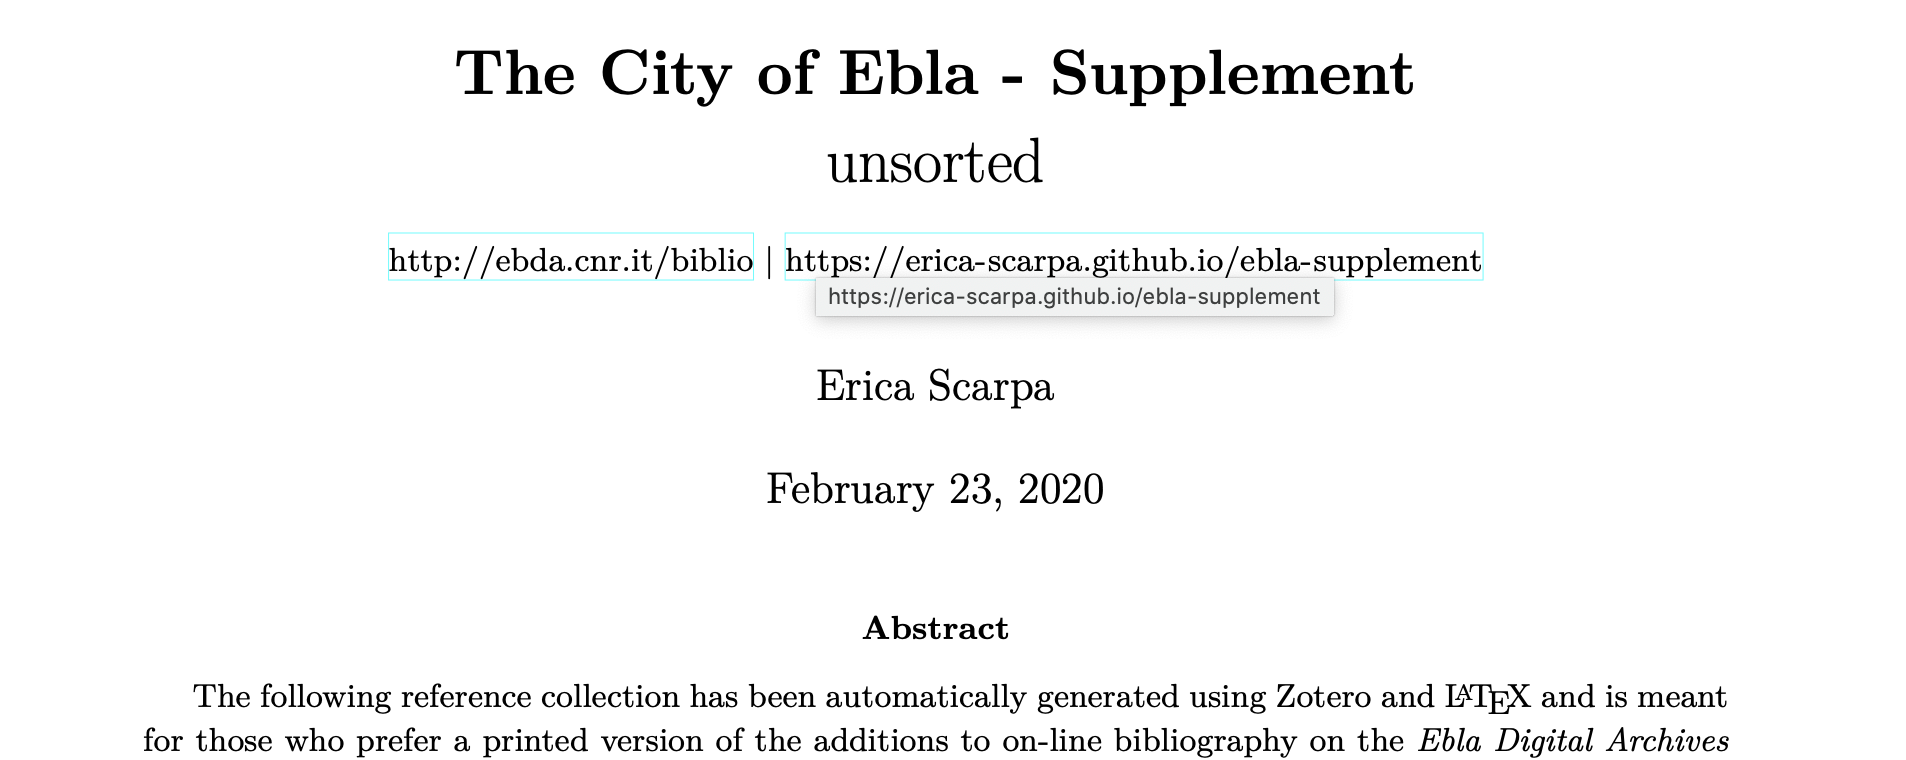
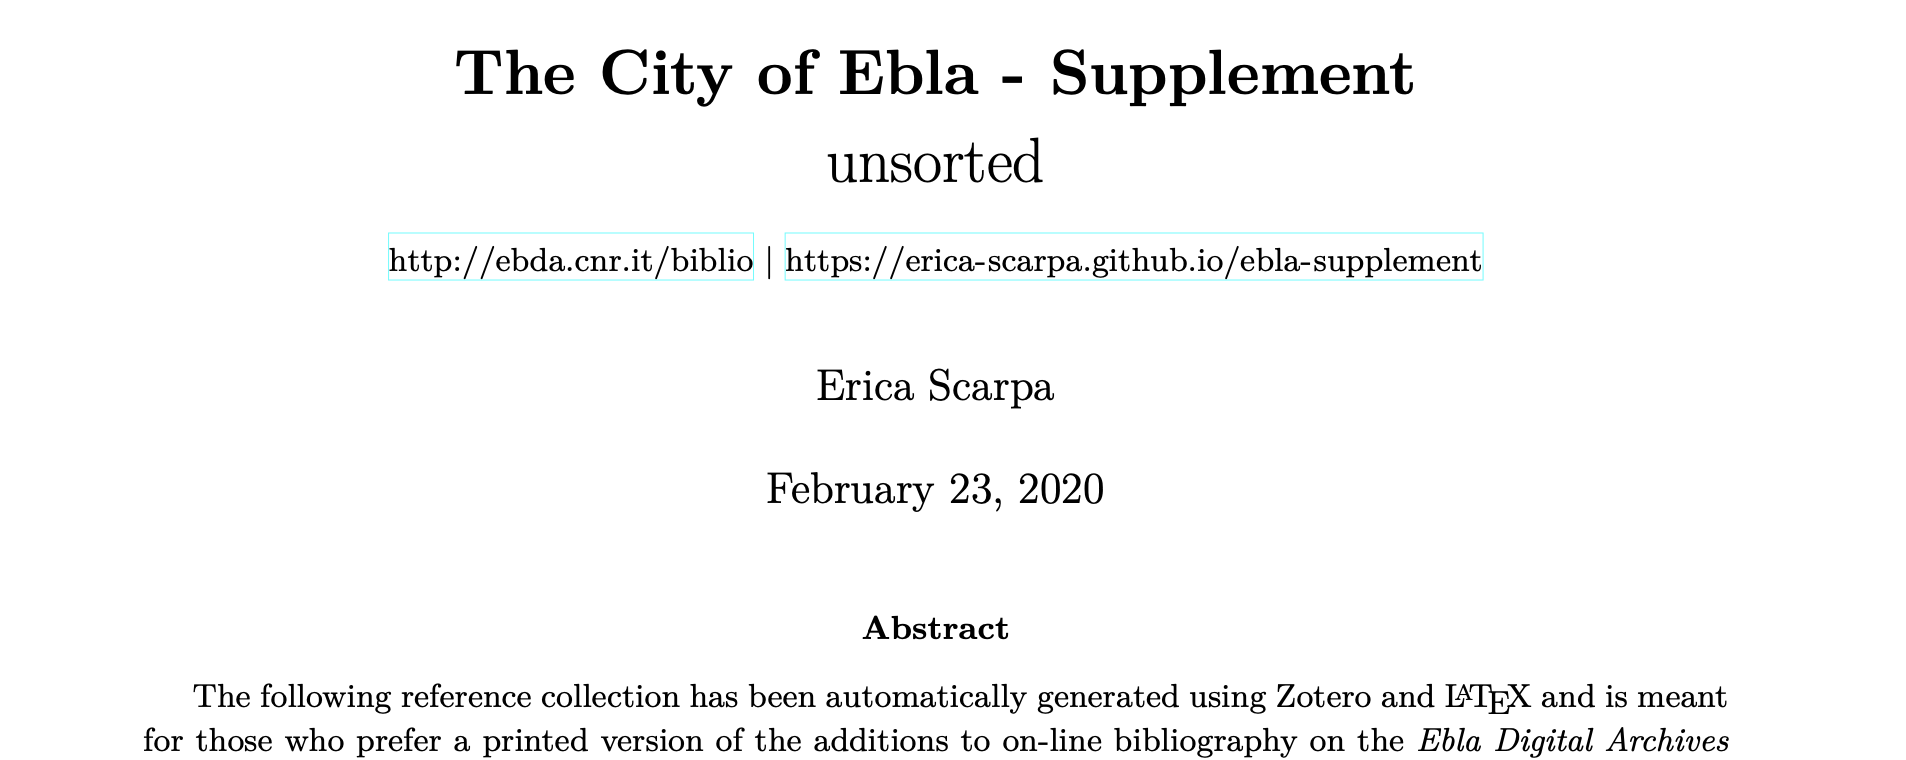
Updated footer

Changed region(s): [[0.4334, 0.3632, 0.712, 0.4237]]

diff --git a/_site/ebla-supplement.html b/_site/ebla-supplement.html
@@ -7,15 +7,15 @@
 <meta name="generator" content="Jekyll v3.7.3" />
 <meta property="og:title" content="The City of Ebla - Supplement" />
 <meta property="og:locale" content="en_US" />
-<meta name="description" content="Two reference collections automatically generated using Zotero and LaTeX, unsorted or ordere by author-date. These PDFs are meant for those who prefer a printed version of the additions to on-line bibliography on the Ebla Digital Archives Project. The online searchable edition is available on the EbDA website, and regularly updated (visit ebda.cnr.it)." />
-<meta property="og:description" content="Two reference collections automatically generated using Zotero and LaTeX, unsorted or ordere by author-date. These PDFs are meant for those who prefer a printed version of the additions to on-line bibliography on the Ebla Digital Archives Project. The online searchable edition is available on the EbDA website, and regularly updated (visit ebda.cnr.it)." />
+<meta name="description" content="Two reference collections automatically generated using Zotero and LaTeX, unsorted or ordered by author-date. These PDFs are meant for those who prefer a printed version of the additions to on-line bibliography on the Ebla Digital Archives Project. The online searchable edition is available on the EbDA website, and regularly updated (visit ebda.cnr.it)." />
+<meta property="og:description" content="Two reference collections automatically generated using Zotero and LaTeX, unsorted or ordered by author-date. These PDFs are meant for those who prefer a printed version of the additions to on-line bibliography on the Ebla Digital Archives Project. The online searchable edition is available on the EbDA website, and regularly updated (visit ebda.cnr.it)." />
 <link rel="canonical" href="http://localhost:4000/ebla-supplement" />
 <meta property="og:url" content="http://localhost:4000/ebla-supplement" />
 <meta property="og:site_name" content="Erica Scarpa" />
 <meta property="og:type" content="article" />
 <meta property="article:published_time" content="2020-02-22T14:43:00+01:00" />
 <script type="application/ld+json">
-{"mainEntityOfPage":{"@type":"WebPage","@id":"http://localhost:4000/ebla-supplement"},"url":"http://localhost:4000/ebla-supplement","headline":"The City of Ebla - Supplement","description":"Two reference collections automatically generated using Zotero and LaTeX, unsorted or ordere by author-date. These PDFs are meant for those who prefer a printed version of the additions to on-line bibliography on the Ebla Digital Archives Project. The online searchable edition is available on the EbDA website, and regularly updated (visit ebda.cnr.it).","dateModified":"2020-02-22T14:43:00+01:00","datePublished":"2020-02-22T14:43:00+01:00","@type":"BlogPosting","@context":"http://schema.org"}</script>
+{"mainEntityOfPage":{"@type":"WebPage","@id":"http://localhost:4000/ebla-supplement"},"url":"http://localhost:4000/ebla-supplement","headline":"The City of Ebla - Supplement","description":"Two reference collections automatically generated using Zotero and LaTeX, unsorted or ordered by author-date. These PDFs are meant for those who prefer a printed version of the additions to on-line bibliography on the Ebla Digital Archives Project. The online searchable edition is available on the EbDA website, and regularly updated (visit ebda.cnr.it).","dateModified":"2020-02-22T14:43:00+01:00","datePublished":"2020-02-22T14:43:00+01:00","@type":"BlogPosting","@context":"http://schema.org"}</script>
 <!-- End Jekyll SEO tag -->
 <link rel="stylesheet" href="/assets/css/style.css"><link type="application/atom+xml" rel="alternate" href="http://localhost:4000/feed.xml" title="Erica Scarpa" />
 </head>
@@ -62,7 +62,7 @@
 <br>
 
 <article class="post-content">
-  <p>Two reference collections automatically generated using Zotero and <span class="latex">L<sup>a</sup>T<sub>e</sub>X</span>, unsorted or ordere by author-date. These PDFs are meant for those who prefer a printed version of the additions to on-line bibliography on the <em>Ebla Digital Archives Project</em>. The online searchable edition is available on the <em>EbDA</em> website, and regularly updated (visit <a href="http://ebda.cnr.it/biblio">ebda.cnr.it</a>).</p>
+  <p>Two reference collections automatically generated using Zotero and <span class="latex">L<sup>a</sup>T<sub>e</sub>X</span>, unsorted or ordered by author-date. These PDFs are meant for those who prefer a printed version of the additions to on-line bibliography on the <em>Ebla Digital Archives Project</em>. The online searchable edition is available on the <em>EbDA</em> website, and regularly updated (visit <a href="http://ebda.cnr.it/biblio">ebda.cnr.it</a>).</p>
 
 <p>For a list of the latest addition please see this page. For mistakes, errors, or omissions, please e-mail me at <a href="mailto:erica.scarpa@gmail.com">erica.scarpa@gmail.com</a>.</p>
 
@@ -74,6 +74,8 @@
   <li><a href="/assets/pdf/ebla-supplement-authordate.pdf">The City of Ebla - Supplement (sorted by author-date)</a></li>
   <li><a href="/assets/pdf/ebla-supplement-unsorted.pdf">The City of Ebla - Supplement (unsorted)</a></li>
 </ul>
+
+<p>Last update: 2020-02-22</p>
 
 <p><br />
 <img src="/assets/images/ebla-supplement.png" alt="" /></p>
@@ -88,19 +90,21 @@
 
     <div class="footer-col-wrapper">
       <div class="footer-col">
-        <center><a href="/">Erica Scarpa <i class="fas fa-jedi fa-fw"></i> </a><br></center>
+        <center><a href="/">Erica Scarpa <i class="fas fa-jedi fa-fw"></i> </a><br>
+<i class="fab fa-creative-commons fa-fw"></i> <i class="fab fa-creative-commons-by fa-fw"></i> <i class="fab fa-creative-commons-nc fa-fw"></i> <i class="fab fa-creative-commons-sa fa-fw"></i>
+<br /><a rel="license" href="http://creativecommons.org/licenses/by-nc-sa/4.0/">CC Attribution - Non Commercial - Share Alike</a></center>
 
     </div>
 
                 <div class="footer-col">
-                <center>    <a href="mailto:erica.scarpa@gmail.com"><i class="fa fa-envelope fa-fw"></i></a>
-                  <a href="https://unive.academia.edu/ericascarpa"><i class="fa fa-font fa-fwx"></i></a>
-                  <a href="https://github.com/erica-scarpa"><i class="fab fa-github-alt fa-fw"></i></a>
-                  <a href="/feed.xml"> <i class="fas fa-rss fa-fw"></i></a>
-                  <a href="https://www.digitalfreedomfoundation.org/""><i class="fas fa-book-open fa-fw"></i></a>
-                  <a href="https://opensource.org"><i class="fab fa-osi fa-fw"></i></a>
-
-                  </center>
+                <center>
+                  <a href="mailto:erica.scarpa@gmail.com"><i class="fa fa-envelope fa-fw fa-2x"></i></a>
+                  <a href="https://unive.academia.edu/ericascarpa"><i class="fa fa-font fa-fwx fa-2x"></i></a>
+                  <a href="https://github.com/erica-scarpa"><i class="fab fa-github-alt fa-fw fa-2x"></i></a>
+                  <a href="/feed.xml"> <i class="fas fa-rss fa-fw fa-2x"></i></a>
+                  <a href="https://www.digitalfreedomfoundation.org/""><i class="fas fa-book-open fa-fw fa-2x"></i></a>
+                  <a href="https://opensource.org"><i class="fab fa-osi fa-fw  fa-2x"></i></a>
+                </center>
                 </div>
 
       </div>

diff --git a/_site/index.html b/_site/index.html
@@ -46,6 +46,27 @@
   <ul class="post-list"><li>
 
         <div class="post-permalink">
+          <i class="far fa-calendar-alt"></i> <span class="post-meta">Feb 23, 2020</span>
+    
+          
+        <i class="fa fa-tags"></i> <a href="/categories/#Other">Other</a>
+          
+          
+        </div>
+        <h3>
+
+          <div class="post-link"><a href="/ring-to-rule">The Ring to Rule Them All</a></div>
+
+        </h3>
+
+          <p><img src="/assets/images/logo-superheroes.png" alt="" /></p>
+
+<h1 id="introduction">Introduction</h1>
+
+
+      </li><center><i class="fas fa-hand-spock"></i></center><li>
+
+        <div class="post-permalink">
           <i class="far fa-calendar-alt"></i> <span class="post-meta">Feb 22, 2020</span>
     
           
@@ -59,7 +80,7 @@
 
         </h3>
 
-          <p>Two reference collections automatically generated using Zotero and <span class="latex">L<sup>a</sup>T<sub>e</sub>X</span>, unsorted or ordere by author-date. These PDFs are meant for those who prefer a printed version of the additions to on-line bibliography on the <em>Ebla Digital Archives Project</em>. The online searchable edition is available on the <em>EbDA</em> website, and regularly updated (visit <a href="http://ebda.cnr.it/biblio">ebda.cnr.it</a>).</p>
+          <p>Two reference collections automatically generated using Zotero and <span class="latex">L<sup>a</sup>T<sub>e</sub>X</span>, unsorted or ordered by author-date. These PDFs are meant for those who prefer a printed version of the additions to on-line bibliography on the <em>Ebla Digital Archives Project</em>. The online searchable edition is available on the <em>EbDA</em> website, and regularly updated (visit <a href="http://ebda.cnr.it/biblio">ebda.cnr.it</a>).</p>
 
 <p>For a list of the latest addition please see this page. For mistakes, errors, or omissions, please e-mail me at <a href="mailto:erica.scarpa@gmail.com">erica.scarpa@gmail.com</a>.</p>
 
@@ -72,14 +93,15 @@
   <li><a href="/assets/pdf/ebla-supplement-unsorted.pdf">The City of Ebla - Supplement (unsorted)</a></li>
 </ul>
 
+<p>Last update: 2020-02-22</p>
+
 <p><br />
 <img src="/assets/images/ebla-supplement.png" alt="" /></p>
 
 
-      </li></ul>
+      </li><center><i class="fas fa-hand-spock"></i></center></ul>
 
-    <center><i class="fas fa-hand-spock"></i></center>
-</div>
+    </div>
 
       </div>
     </main><footer class="site-footer h-card">
@@ -89,19 +111,21 @@
 
     <div class="footer-col-wrapper">
       <div class="footer-col">
-        <center><a href="/">Erica Scarpa <i class="fas fa-jedi fa-fw"></i> </a><br></center>
+        <center><a href="/">Erica Scarpa <i class="fas fa-jedi fa-fw"></i> </a><br>
+<i class="fab fa-creative-commons fa-fw"></i> <i class="fab fa-creative-commons-by fa-fw"></i> <i class="fab fa-creative-commons-nc fa-fw"></i> <i class="fab fa-creative-commons-sa fa-fw"></i>
+<br /><a rel="license" href="http://creativecommons.org/licenses/by-nc-sa/4.0/">CC Attribution - Non Commercial - Share Alike</a></center>
 
     </div>
 
                 <div class="footer-col">
-                <center>    <a href="mailto:erica.scarpa@gmail.com"><i class="fa fa-envelope fa-fw"></i></a>
-                  <a href="https://unive.academia.edu/ericascarpa"><i class="fa fa-font fa-fwx"></i></a>
-                  <a href="https://github.com/erica-scarpa"><i class="fab fa-github-alt fa-fw"></i></a>
-                  <a href="/feed.xml"> <i class="fas fa-rss fa-fw"></i></a>
-                  <a href="https://www.digitalfreedomfoundation.org/""><i class="fas fa-book-open fa-fw"></i></a>
-                  <a href="https://opensource.org"><i class="fab fa-osi fa-fw"></i></a>
-
-                  </center>
+                <center>
+                  <a href="mailto:erica.scarpa@gmail.com"><i class="fa fa-envelope fa-fw fa-2x"></i></a>
+                  <a href="https://unive.academia.edu/ericascarpa"><i class="fa fa-font fa-fwx fa-2x"></i></a>
+                  <a href="https://github.com/erica-scarpa"><i class="fab fa-github-alt fa-fw fa-2x"></i></a>
+                  <a href="/feed.xml"> <i class="fas fa-rss fa-fw fa-2x"></i></a>
+                  <a href="https://www.digitalfreedomfoundation.org/""><i class="fas fa-book-open fa-fw fa-2x"></i></a>
+                  <a href="https://opensource.org"><i class="fab fa-osi fa-fw  fa-2x"></i></a>
+                </center>
                 </div>
 
       </div>

diff --git a/_includes/footer.html b/_includes/footer.html
@@ -5,19 +5,21 @@
 
     <div class="footer-col-wrapper">
       <div class="footer-col">
-        <center><a href="{{ site.baseurl }}/">{{ site.title }} <i class="fas fa-jedi fa-fw"></i> </a><br></center>
+        <center><a href="{{ site.baseurl }}/">{{ site.title }} <i class="fas fa-jedi fa-fw"></i> </a><br>
+<i class="fab fa-creative-commons fa-fw"></i> <i class="fab fa-creative-commons-by fa-fw"></i> <i class="fab fa-creative-commons-nc fa-fw"></i> <i class="fab fa-creative-commons-sa fa-fw"></i>
+<br /><a rel="license" href="http://creativecommons.org/licenses/by-nc-sa/4.0/">CC Attribution - Non Commercial - Share Alike</a></center>
 
     </div>
 
                 <div class="footer-col">
-                <center>    <a href="mailto:erica.scarpa@gmail.com"><i class="fa fa-envelope fa-fw"></i></a>
-                  <a href="https://unive.academia.edu/ericascarpa"><i class="fa fa-font fa-fwx"></i></a>
-                  <a href="https://github.com/erica-scarpa"><i class="fab fa-github-alt fa-fw"></i></a>
-                  <a href="/feed.xml"> <i class="fas fa-rss fa-fw"></i></a>
-                  <a href="https://www.digitalfreedomfoundation.org/""><i class="fas fa-book-open fa-fw"></i></a>
-                  <a href="https://opensource.org"><i class="fab fa-osi fa-fw"></i></a>
-
-                  </center>
+                <center>
+                  <a href="mailto:erica.scarpa@gmail.com"><i class="fa fa-envelope fa-fw fa-2x"></i></a>
+                  <a href="https://unive.academia.edu/ericascarpa"><i class="fa fa-font fa-fwx fa-2x"></i></a>
+                  <a href="https://github.com/erica-scarpa"><i class="fab fa-github-alt fa-fw fa-2x"></i></a>
+                  <a href="/feed.xml"> <i class="fas fa-rss fa-fw fa-2x"></i></a>
+                  <a href="https://www.digitalfreedomfoundation.org/""><i class="fas fa-book-open fa-fw fa-2x"></i></a>
+                  <a href="https://opensource.org"><i class="fab fa-osi fa-fw  fa-2x"></i></a>
+                </center>
                 </div>
 
       </div>

diff --git a/_site/CV/index.html b/_site/CV/index.html
@@ -113,19 +113,21 @@
 
     <div class="footer-col-wrapper">
       <div class="footer-col">
-        <center><a href="/">Erica Scarpa <i class="fas fa-jedi fa-fw"></i> </a><br></center>
+        <center><a href="/">Erica Scarpa <i class="fas fa-jedi fa-fw"></i> </a><br>
+<i class="fab fa-creative-commons fa-fw"></i> <i class="fab fa-creative-commons-by fa-fw"></i> <i class="fab fa-creative-commons-nc fa-fw"></i> <i class="fab fa-creative-commons-sa fa-fw"></i>
+<br /><a rel="license" href="http://creativecommons.org/licenses/by-nc-sa/4.0/">CC Attribution - Non Commercial - Share Alike</a></center>
 
     </div>
 
                 <div class="footer-col">
-                <center>    <a href="mailto:erica.scarpa@gmail.com"><i class="fa fa-envelope fa-fw"></i></a>
-                  <a href="https://unive.academia.edu/ericascarpa"><i class="fa fa-font fa-fwx"></i></a>
-                  <a href="https://github.com/erica-scarpa"><i class="fab fa-github-alt fa-fw"></i></a>
-                  <a href="/feed.xml"> <i class="fas fa-rss fa-fw"></i></a>
-                  <a href="https://www.digitalfreedomfoundation.org/""><i class="fas fa-book-open fa-fw"></i></a>
-                  <a href="https://opensource.org"><i class="fab fa-osi fa-fw"></i></a>
-
-                  </center>
+                <center>
+                  <a href="mailto:erica.scarpa@gmail.com"><i class="fa fa-envelope fa-fw fa-2x"></i></a>
+                  <a href="https://unive.academia.edu/ericascarpa"><i class="fa fa-font fa-fwx fa-2x"></i></a>
+                  <a href="https://github.com/erica-scarpa"><i class="fab fa-github-alt fa-fw fa-2x"></i></a>
+                  <a href="/feed.xml"> <i class="fas fa-rss fa-fw fa-2x"></i></a>
+                  <a href="https://www.digitalfreedomfoundation.org/""><i class="fas fa-book-open fa-fw fa-2x"></i></a>
+                  <a href="https://opensource.org"><i class="fab fa-osi fa-fw  fa-2x"></i></a>
+                </center>
                 </div>
 
       </div>

diff --git a/_site/404.html b/_site/404.html
@@ -68,19 +68,21 @@
 
     <div class="footer-col-wrapper">
       <div class="footer-col">
-        <center><a href="/">Erica Scarpa <i class="fas fa-jedi fa-fw"></i> </a><br></center>
+        <center><a href="/">Erica Scarpa <i class="fas fa-jedi fa-fw"></i> </a><br>
+<i class="fab fa-creative-commons fa-fw"></i> <i class="fab fa-creative-commons-by fa-fw"></i> <i class="fab fa-creative-commons-nc fa-fw"></i> <i class="fab fa-creative-commons-sa fa-fw"></i>
+<br /><a rel="license" href="http://creativecommons.org/licenses/by-nc-sa/4.0/">CC Attribution - Non Commercial - Share Alike</a></center>
 
     </div>
 
                 <div class="footer-col">
-                <center>    <a href="mailto:erica.scarpa@gmail.com"><i class="fa fa-envelope fa-fw"></i></a>
-                  <a href="https://unive.academia.edu/ericascarpa"><i class="fa fa-font fa-fwx"></i></a>
-                  <a href="https://github.com/erica-scarpa"><i class="fab fa-github-alt fa-fw"></i></a>
-                  <a href="/feed.xml"> <i class="fas fa-rss fa-fw"></i></a>
-                  <a href="https://www.digitalfreedomfoundation.org/""><i class="fas fa-book-open fa-fw"></i></a>
-                  <a href="https://opensource.org"><i class="fab fa-osi fa-fw"></i></a>
-
-                  </center>
+                <center>
+                  <a href="mailto:erica.scarpa@gmail.com"><i class="fa fa-envelope fa-fw fa-2x"></i></a>
+                  <a href="https://unive.academia.edu/ericascarpa"><i class="fa fa-font fa-fwx fa-2x"></i></a>
+                  <a href="https://github.com/erica-scarpa"><i class="fab fa-github-alt fa-fw fa-2x"></i></a>
+                  <a href="/feed.xml"> <i class="fas fa-rss fa-fw fa-2x"></i></a>
+                  <a href="https://www.digitalfreedomfoundation.org/""><i class="fas fa-book-open fa-fw fa-2x"></i></a>
+                  <a href="https://opensource.org"><i class="fab fa-osi fa-fw  fa-2x"></i></a>
+                </center>
                 </div>
 
       </div>

diff --git a/_site/social-history-through-textual-patterns/index.html b/_site/social-history-through-textual-patterns/index.html
@@ -79,19 +79,21 @@
 
     <div class="footer-col-wrapper">
       <div class="footer-col">
-        <center><a href="/">Erica Scarpa <i class="fas fa-jedi fa-fw"></i> </a><br></center>
+        <center><a href="/">Erica Scarpa <i class="fas fa-jedi fa-fw"></i> </a><br>
+<i class="fab fa-creative-commons fa-fw"></i> <i class="fab fa-creative-commons-by fa-fw"></i> <i class="fab fa-creative-commons-nc fa-fw"></i> <i class="fab fa-creative-commons-sa fa-fw"></i>
+<br /><a rel="license" href="http://creativecommons.org/licenses/by-nc-sa/4.0/">CC Attribution - Non Commercial - Share Alike</a></center>
 
     </div>
 
                 <div class="footer-col">
-                <center>    <a href="mailto:erica.scarpa@gmail.com"><i class="fa fa-envelope fa-fw"></i></a>
-                  <a href="https://unive.academia.edu/ericascarpa"><i class="fa fa-font fa-fwx"></i></a>
-                  <a href="https://github.com/erica-scarpa"><i class="fab fa-github-alt fa-fw"></i></a>
-                  <a href="/feed.xml"> <i class="fas fa-rss fa-fw"></i></a>
-                  <a href="https://www.digitalfreedomfoundation.org/""><i class="fas fa-book-open fa-fw"></i></a>
-                  <a href="https://opensource.org"><i class="fab fa-osi fa-fw"></i></a>
-
-                  </center>
+                <center>
+                  <a href="mailto:erica.scarpa@gmail.com"><i class="fa fa-envelope fa-fw fa-2x"></i></a>
+                  <a href="https://unive.academia.edu/ericascarpa"><i class="fa fa-font fa-fwx fa-2x"></i></a>
+                  <a href="https://github.com/erica-scarpa"><i class="fab fa-github-alt fa-fw fa-2x"></i></a>
+                  <a href="/feed.xml"> <i class="fas fa-rss fa-fw fa-2x"></i></a>
+                  <a href="https://www.digitalfreedomfoundation.org/""><i class="fas fa-book-open fa-fw fa-2x"></i></a>
+                  <a href="https://opensource.org"><i class="fab fa-osi fa-fw  fa-2x"></i></a>
+                </center>
                 </div>
 
       </div>

diff --git a/_site/assets/css/style.css b/_site/assets/css/style.css
@@ -191,7 +191,7 @@ table td { border: 1px solid #e8e8e8; }
 
 .post-meta { font-size: 14px; color: #828282; }
 
-.post-link { display: block; font-size: 2.25rem; letter-spacing: 0.5px; line-height: 1.15; }
+.post-link { display: block; font-size: 2.15rem; letter-spacing: 0.5px; line-height: 1.5; }
 
 /** Posts */
 .post-header { margin-bottom: 30px; }

diff --git a/_layouts/home.html b/_layouts/home.html
@@ -46,8 +46,10 @@ layout: default
 
           {{ post.content }}
 
-      </li>
+      </li><center><i class="fas fa-hand-spock"></i></center>
+
       {%- endfor -%}
+
     </ul>
 
     {% if site.paginate %}
@@ -69,5 +71,4 @@ layout: default
     {%- endif %}
 
   {%- endif -%}
-<center><i class="fas fa-hand-spock"></i></center>
 </div>

diff --git a/_sass/minima/_layout.scss b/_sass/minima/_layout.scss
@@ -231,9 +231,9 @@
 
 .post-link {
   display: block;
-  @include relative-font-size(2.25);
+  @include relative-font-size(2.15);
   letter-spacing: 0.5px;
-  line-height: 1.15;
+  line-height: 1.5;
 }
 
 
